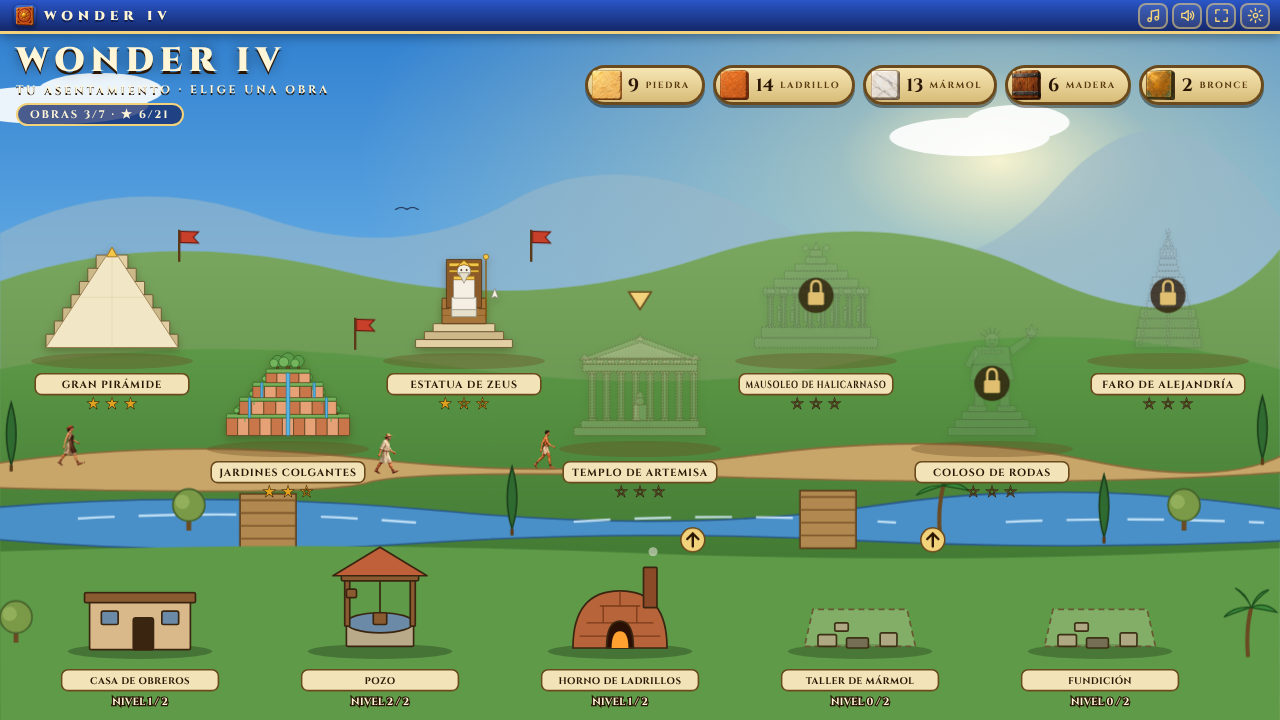
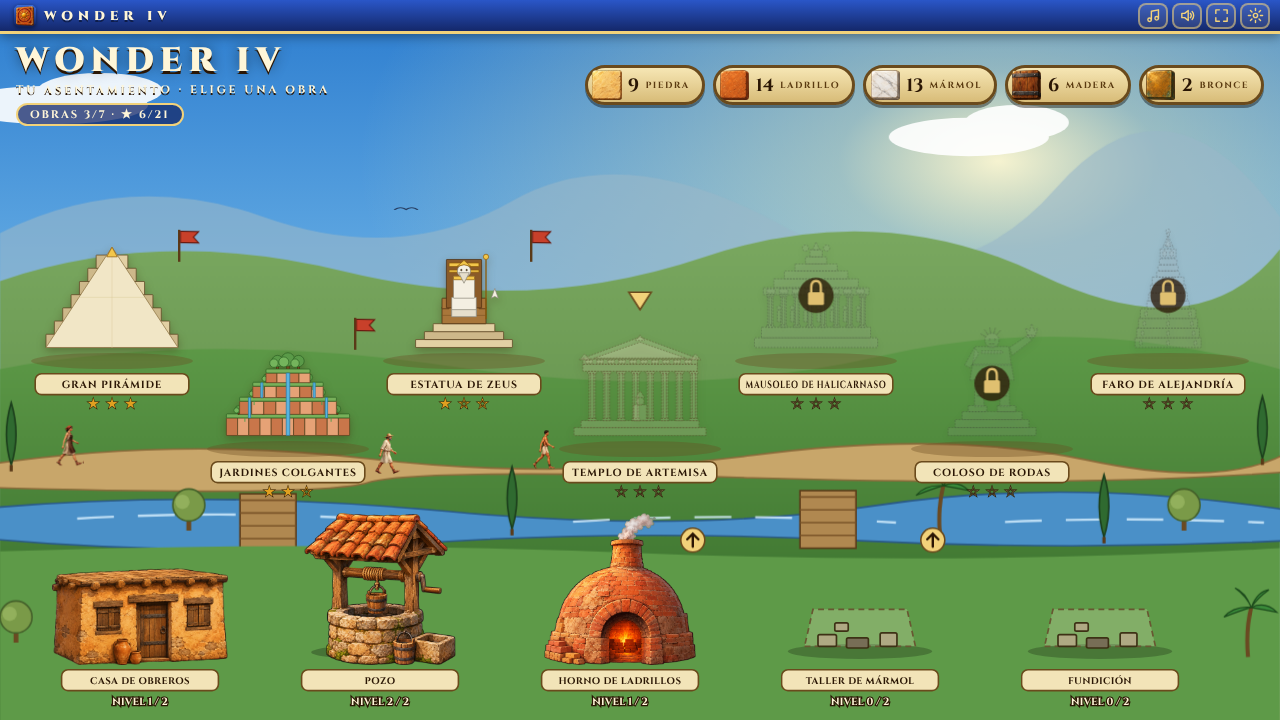
Edificios ilustrados en sus dos niveles, documentación y capturas actualizadas

diff --git a/js/asentamiento.js b/js/asentamiento.js
@@ -77,7 +77,11 @@ function settlementSVG(){
   BUILDINGS.forEach((b,i)=>{
     const [x,y]=BUILD_SPOTS[i], lv=buildingLevel(b.id), can=lv<BUILD_MAX && (getStock()[b.mat]||0)>=b.cost[lv];
     s+=`<g class="plot build-plot${can?' can':''}" data-kind="build" data-id="${b.id}" tabindex="0" role="button" aria-label="${b.name}, nivel ${lv}"><title>${b.name} · nivel ${lv}/${BUILD_MAX}</title>`;
-    s+=`<g class="w-art">${nestedSVG(`<svg viewBox="0 0 200 150" xmlns="http://www.w3.org/2000/svg">${buildingArt(b.id,lv)}</svg>`,x,y,BS_W,BS_H)}</g>`;
+    // nivel 1 y 2: ilustraciones de img/edificios; nivel 0: el solar dibujado en SVG
+    const art=lv>=1
+      ? nestedSVG(`<svg viewBox="-10 -40 220 190" xmlns="http://www.w3.org/2000/svg">${SHADOW}<image href="img/edificios/edif_${b.id}_${lv}.png" x="-10" y="-40" width="220" height="190" preserveAspectRatio="xMidYMax meet"/></svg>`,x-5,y-34,BS_W+10,BS_H+36)
+      : nestedSVG(`<svg viewBox="0 0 200 150" xmlns="http://www.w3.org/2000/svg">${buildingArt(b.id,0)}</svg>`,x,y,BS_W,BS_H);
+    s+=`<g class="w-art">${art}</g>`;
     s+=`<g transform="translate(${x+BS_W/2} ${y+BS_H+8})"><rect x="-98" y="-2" width="196" height="26" rx="8" fill="#f2e4b8" stroke="#6a4a1c" stroke-width="2"/><text y="16" text-anchor="middle" font-family="Cinzel,Georgia,serif" font-weight="700" font-size="12" fill="#2a1604" letter-spacing=".5">${b.name}</text>`;
     s+=`<text y="42" text-anchor="middle" font-family="Cinzel,Georgia,serif" font-size="13" font-weight="700" fill="#fff6d8" stroke="#2a1604" stroke-width="3" paint-order="stroke">NIVEL ${lv} / ${BUILD_MAX}</text></g>`;
     if(can) s+=`<g transform="translate(${x+BS_W-14} ${y+6})"><g class="pulse"><circle r="15" fill="#f2d27a" stroke="#6a4a1c" stroke-width="2"/><path d="M0 8V-8M-7 -1L0 -8L7 -1" stroke="#2a1604" stroke-width="3" fill="none" stroke-linecap="round"/></g></g>`;

diff --git a/tools/build-art.py b/tools/build-art.py
@@ -1,8 +1,8 @@
 #!/usr/bin/env python3
 """Procesa las imágenes sueltas sobre verde #00FF00 (piezas, bloques, marco, columna) a PNG con transparencia.
 
-Uso: python3 tools/build-art.py CARPETA   (con las claves como nombre: gema_sol.png, bloque_piedra.png, marco.png, columna.png...)
-Escribe img/piezas, img/bloques, img/marco.png, img/columna.png y js/arte.js (medidas del marco).
+Uso: python3 tools/build-art.py CARPETA   (con las claves como nombre: gema_sol.png, bloque_piedra.png, marco.png, columna.png, edif_pozo_1.png...)
+Escribe img/piezas, img/bloques, img/edificios, img/marco.png, img/columna.png y, si hay marco, js/arte.js (medidas del hueco).
 """
 import json, sys, pathlib
 import numpy as np
@@ -10,7 +10,7 @@ from PIL import Image
 
 root = pathlib.Path(__file__).resolve().parent.parent
 src = pathlib.Path(sys.argv[1])
-SIZES = {'gema': 192, 'bloque': 176, 'marco': 800, 'columna': 760}   # lado mayor en px (al doble de lo que se ve)
+SIZES = {'gema': 192, 'bloque': 176, 'marco': 800, 'columna': 760, 'edif': 460}   # lado mayor en px (al doble de lo que se ve)
 
 def key(img):
     a = np.asarray(img.convert('RGB')).astype(np.float32)
@@ -35,6 +35,7 @@ for f in sorted(src.glob('*.png')):
     out, bb = crop_resize(im, SIZES[kind])
     if kind == 'gema': d = root / 'img' / 'piezas'
     elif kind == 'bloque': d = root / 'img' / 'bloques'
+    elif kind == 'edif': d = root / 'img' / 'edificios'
     else: d = root / 'img'
     d.mkdir(parents=True, exist_ok=True)
     out.save(d / f'{k}.png', optimize=True)
@@ -48,4 +49,5 @@ for f in sorted(src.glob('*.png')):
                          'iw': round((x1 - x0) / out.width, 4), 'ih': round((y1 - y0) / out.height, 4)}
     print(k, out.size)
 
-(root / 'js' / 'arte.js').write_text('// Generado por tools/build-art.py: posición del hueco liso dentro de img/marco.png (fracciones del tamaño)\nconst ARTE=' + json.dumps(meta, separators=(',', ':')) + ';\n', encoding='utf-8')
+if meta:
+    (root / 'js' / 'arte.js').write_text('// Generado por tools/build-art.py: posición del hueco liso dentro de img/marco.png (fracciones del tamaño)\nconst ARTE=' + json.dumps(meta, separators=(',', ':')) + ';\n', encoding='utf-8')

diff --git a/README.md b/README.md
@@ -138,7 +138,7 @@ python3 -m http.server 8000   # http://localhost:8000
 ## 🔧 Detalles técnicos
 
 - **HTML, CSS y JavaScript planos.** Los scripts son clásicos (no módulos), se cargan en orden y comparten el ámbito global.
-- **Arte:** piezas, bloques, marco, columnas, fondos de las siete obras y operarios son ilustraciones en `img/`; el mapa del asentamiento, los edificios y las siete maravillas se dibujan en SVG desde el código (`js/asentamiento.js`, `js/maravillas.js`). Más detalles en [`docs/ARTE.md`](docs/ARTE.md).
+- **Arte:** piezas, bloques, marco, columnas, fondos de las siete obras y operarios son ilustraciones en `img/`; los edificios del asentamiento (niveles 1 y 2) son ilustraciones en `img/edificios/`; el mapa, los solares vacíos y las siete maravillas se dibujan en SVG desde el código (`js/asentamiento.js`, `js/maravillas.js`). Más detalles en [`docs/ARTE.md`](docs/ARTE.md).
 - **Operarios** animados con hojas de 8 fotogramas (`img/obreros/`) y `steps()` de CSS; con `prefers-reduced-motion` se quedan quietos y las entregas son instantáneas.
 - **Entrada unificada** con *pointer events*: toque sobre dos piezas contiguas o deslizamiento, válidos para ratón, táctil y lápiz.
 - **Guardado** en `localStorage` dentro de `try/catch`: récord y estrellas (`wonder_best_*`, `wonder_stars_*`), materiales (`wonder_stock`), edificios (`wonder_build`), sonido (`wonder_audio`) y ajustes (`wonder_reduce`, `wonder_tuto`).
@@ -178,7 +178,7 @@ wonder-iv/
 │   ├── sprites.js      # (generado) medidas de las hojas de operarios
 │   ├── arte.js         # (generado) medidas del marco del tablero
 │   └── main.js         # Arranque y botón de modo claro/oscuro
-├── img/                # piezas, bloques, marco, columna, fondos y obreros
+├── img/                # piezas, bloques, edificios, marco, columna, fondos y obreros
 ├── tools/              # prueba/jugar.mjs, build-sprites.py, build-art.py, build-icons.py
 ├── docs/               # Banner, capturas, GIFs, ARTE.md y los prompts de las imágenes
 ├── CHANGELOG.md
@@ -190,7 +190,7 @@ wonder-iv/
 
 - [ ] Jugar solo con teclado
 - [ ] Más pistas de música y una voz de cantero para las reacciones
-- [ ] Ilustraciones propias para los edificios y el mapa (los prompts están en `docs/PROMPTS_ASENTAMIENTO.md`)
+- [ ] Ilustración propia para el mapa del asentamiento, el solar vacío y el título (los prompts están en `docs/PROMPTS_ASENTAMIENTO.md`)
 - [ ] Equilibrar movimientos y costes con partidas de personas reales
 - [ ] Textos en inglés
 

diff --git a/docs/ARTE.md b/docs/ARTE.md
@@ -9,7 +9,8 @@
 | Marco del tablero y columna | `img/marco.png`, `img/columna.png` | Ídem |
 | Fondos de las siete obras | `img/fondos/` | Ilustraciones generadas con ChatGPT con prompts propios (plantilla de fondo de nivel) |
 | Operarios (4 personajes) | `img/obreros/` | Hojas de 8 fotogramas generadas con los prompts de [`PROMPTS_OBREROS.md`](PROMPTS_OBREROS.md) |
-| Mapa del asentamiento, edificios, las siete maravillas | `js/asentamiento.js`, `js/maravillas.js` | SVG dibujado a mano en el código |
+| Edificios del asentamiento (cinco, niveles 1 y 2) | `img/edificios/` | Ilustraciones generadas con ChatGPT a partir de los prompts de [`PROMPTS_ASENTAMIENTO.md`](PROMPTS_ASENTAMIENTO.md) |
+| Mapa del asentamiento, solares vacíos y las siete maravillas | `js/asentamiento.js`, `js/maravillas.js` | SVG dibujado a mano en el código |
 | Icono y favicons | `icon-512.png`, `apple-touch-icon.png`, `favicon-*.png`, `favicon.ico` | Pieza del sol sobre lapislázuli, con `tools/build-icons.py` |
 | Música y sonidos | `js/audio.js` | Sintetizados en el navegador con Web Audio, sin archivos |
 | Tipografía Cinzel | `css/fonts/` | SIL OFL 1.1 |
@@ -22,4 +23,4 @@ Las ilustraciones las ha generado el autor con ChatGPT (OpenAI) y se distribuyen
 
 ## Qué falta
 
-El mapa del asentamiento y los edificios siguen siendo SVG propio. Si se generan ilustraciones, los prompts están en [`PROMPTS_ASENTAMIENTO.md`](PROMPTS_ASENTAMIENTO.md); cada edificio tendría dos imágenes (nivel 1 y nivel 2), más un solar vacío.
+El mapa del asentamiento, el solar vacío (nivel 0 de cada edificio) y el título siguen siendo SVG propio o texto. Si se generan ilustraciones, los prompts 11 y 12 de [`PROMPTS_ASENTAMIENTO.md`](PROMPTS_ASENTAMIENTO.md) son el solar y el título.

diff --git a/CHANGELOG.md b/CHANGELOG.md
@@ -1,5 +1,9 @@
 # Registro de cambios
 
+## 1.5 · Edificios ilustrados
+- Los cinco edificios del asentamiento ya son ilustraciones propias en sus dos niveles (cabaña y casa de dos pisos, pozo y pozo con abrevadero, horno de una y de dos cúpulas, taller y taller con estatua, forja con uno y con dos hornos). El solar vacío sigue en SVG.
+- `tools/build-art.py` procesa también los edificios (`img/edificios/`) y ya no pisa `js/arte.js` si no hay marco.
+
 ## 1.4 · Pulido: sonido, música y efectos
 - **Sonido y música propios**, sintetizados con Web Audio (sin archivos de audio): ocho pistas (pueblo y una por maravilla, cada una con su escala, tempo e instrumentos) y unos treinta efectos. La música cambia al entrar y salir de una obra, baja con los jingles de victoria y derrota y se pausa al cambiar de pestaña.
 - **Ajustes** (⚙ o `Esc`): volumen y silencio de música y efectos, «reducir movimiento», ayuda y borrar progreso. Atajos `M`, `F`, `H` y `Esc`.

diff --git a/docs/PROMPTS_ASENTAMIENTO.md b/docs/PROMPTS_ASENTAMIENTO.md
@@ -2,7 +2,7 @@
 
 Opcional: sustituyen a los dibujos SVG de los edificios. Cada prompt se pega **tal cual**. Todos son **cuadrados 1:1**, fondo verde liso, con la misma vista (de frente con algo de perspectiva, como las piezas), para que encajen entre sí. Pásame los archivos con el nombre que figura en cada apartado.
 
-Orden: 1 a 10 (los cinco edificios, nivel 1 y nivel 2), 11 (solar vacío), 12 (título).
+Orden: 1 a 10 (los cinco edificios, nivel 1 y nivel 2), 11 (solar vacío), 12 (título). **Los prompts 1 a 10 ya se han usado y las imágenes están integradas en `img/edificios/`; quedan por generar el 11 y el 12.**
 
 ---
 
